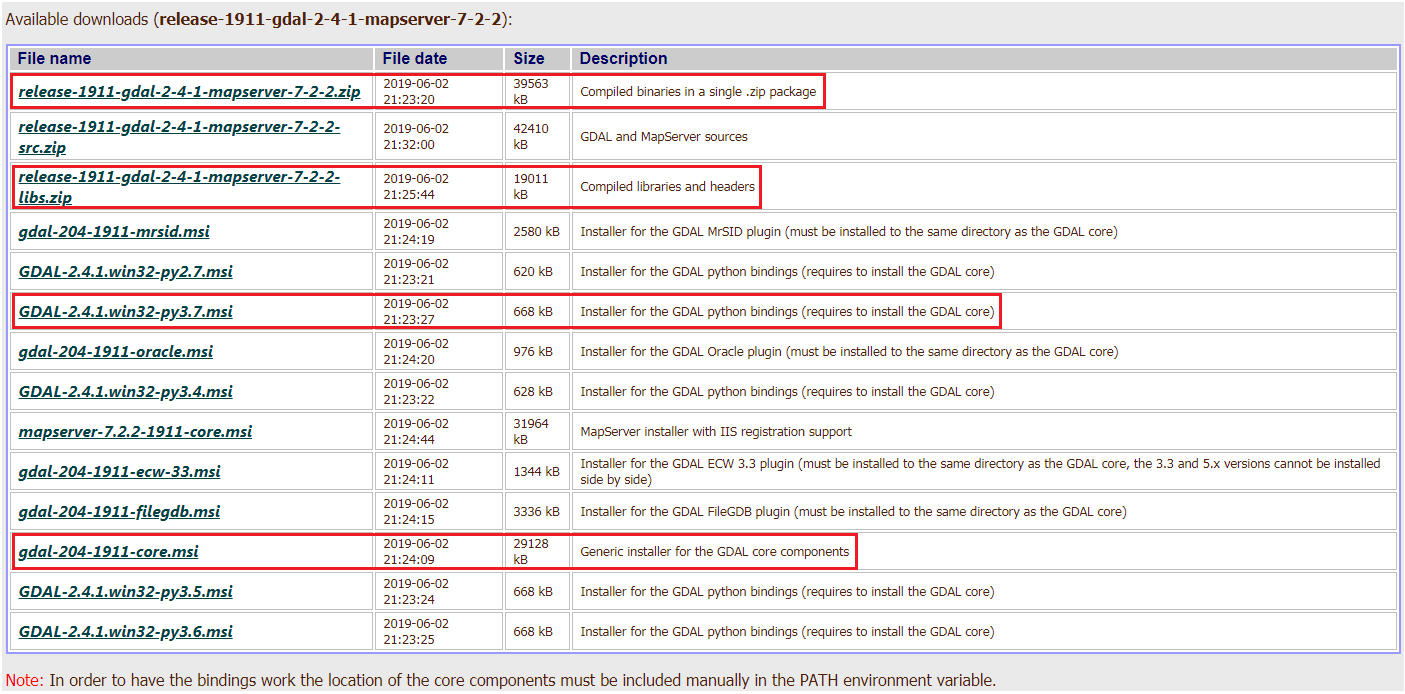
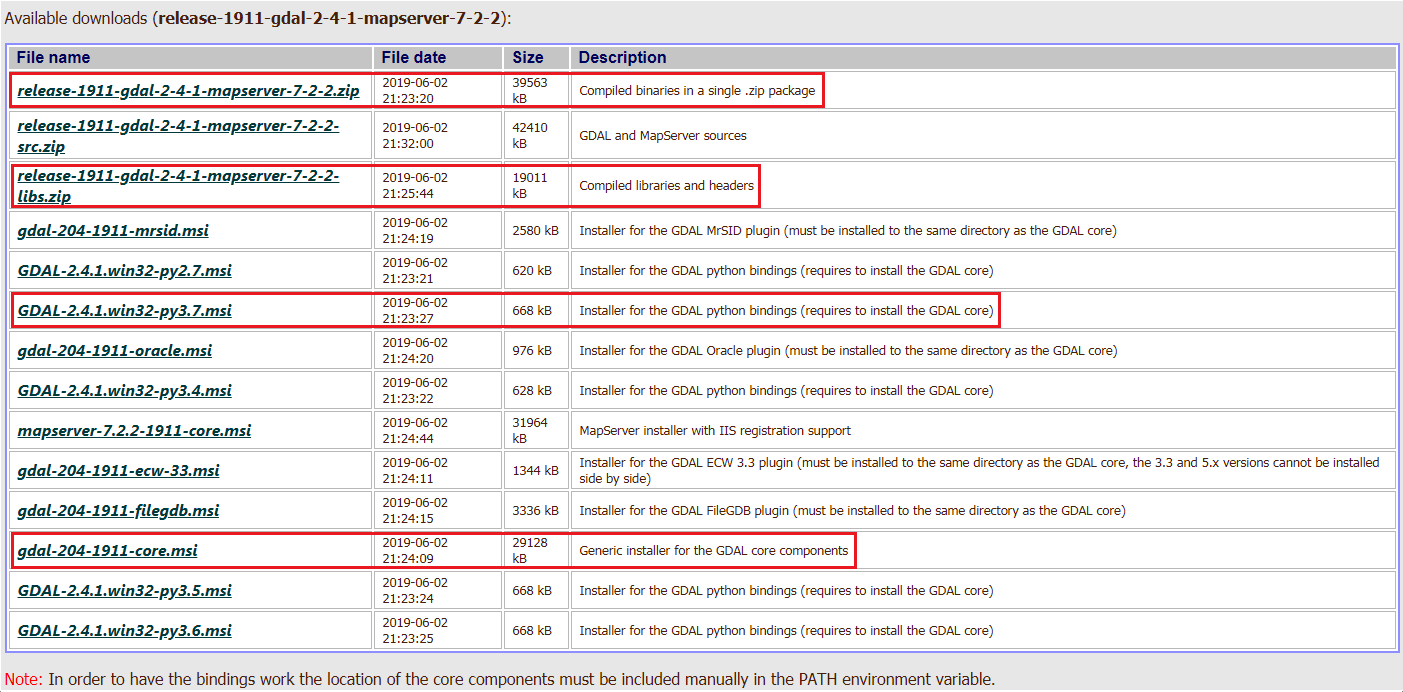
change images mod

diff --git a/_posts/2019-06-26-how-to-install-python-module-fiona-on-windows-os.md b/_posts/2019-06-26-how-to-install-python-module-fiona-on-windows-os.md
@@ -2,7 +2,7 @@
 layout:             post
 title:              "How to install python module fiona on Windows OS ?"
 date:               "2019-06-26 20:41:26 +0200"
-last_modified_at:   2019-07-10 00:07:44 +0200
+last_modified_at:   2019-07-23 21:21:08 +0200
 comments:           true
 excerpt:            >
     In this blog, I talk about the requirements and the steps for installing module
@@ -48,7 +48,7 @@ You can download it [here][GDAL old release].
 
 <p align="center">
   <img alt="GDAL old releases"
-  src="{{ site.baseurl }}/images/20190626-GDAL-old-releases.png"/>
+  src="{{ site.baseurl }}/images/20190626-GDAL-old-releases.PNG"/>
 </p>
 
 ### Choose "win32" or "x64"?
@@ -65,7 +65,7 @@ Since python that I have installed is version Python 3.7 (32 bit), I choose
 
 <p align="center">
   <img alt="GDAL download table"
-  src="{{ site.baseurl }}/images/20190626-GDAL-download-table.png"/>
+  src="{{ site.baseurl }}/images/20190626-GDAL-download-table.PNG"/>
 </p>
 
 We need to download:
